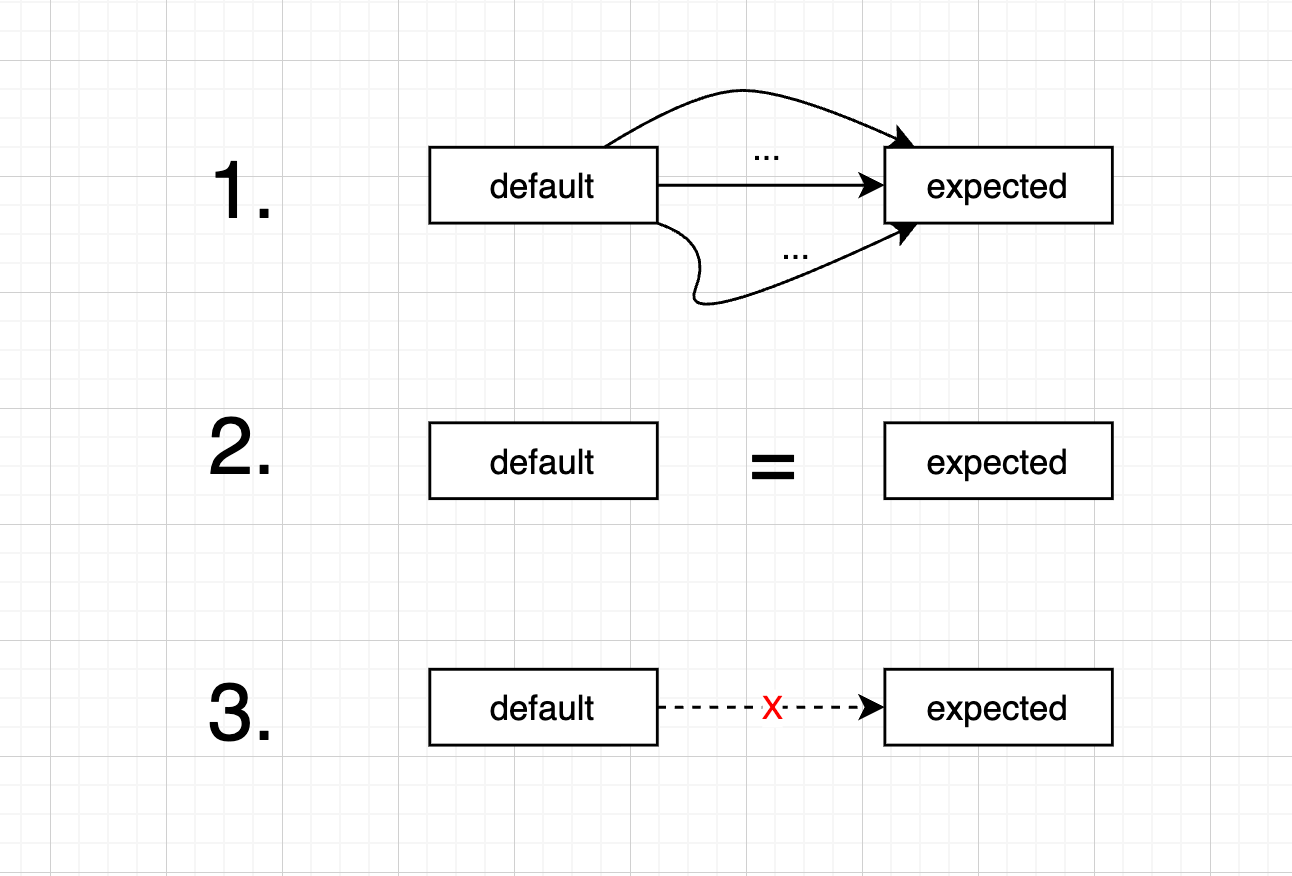
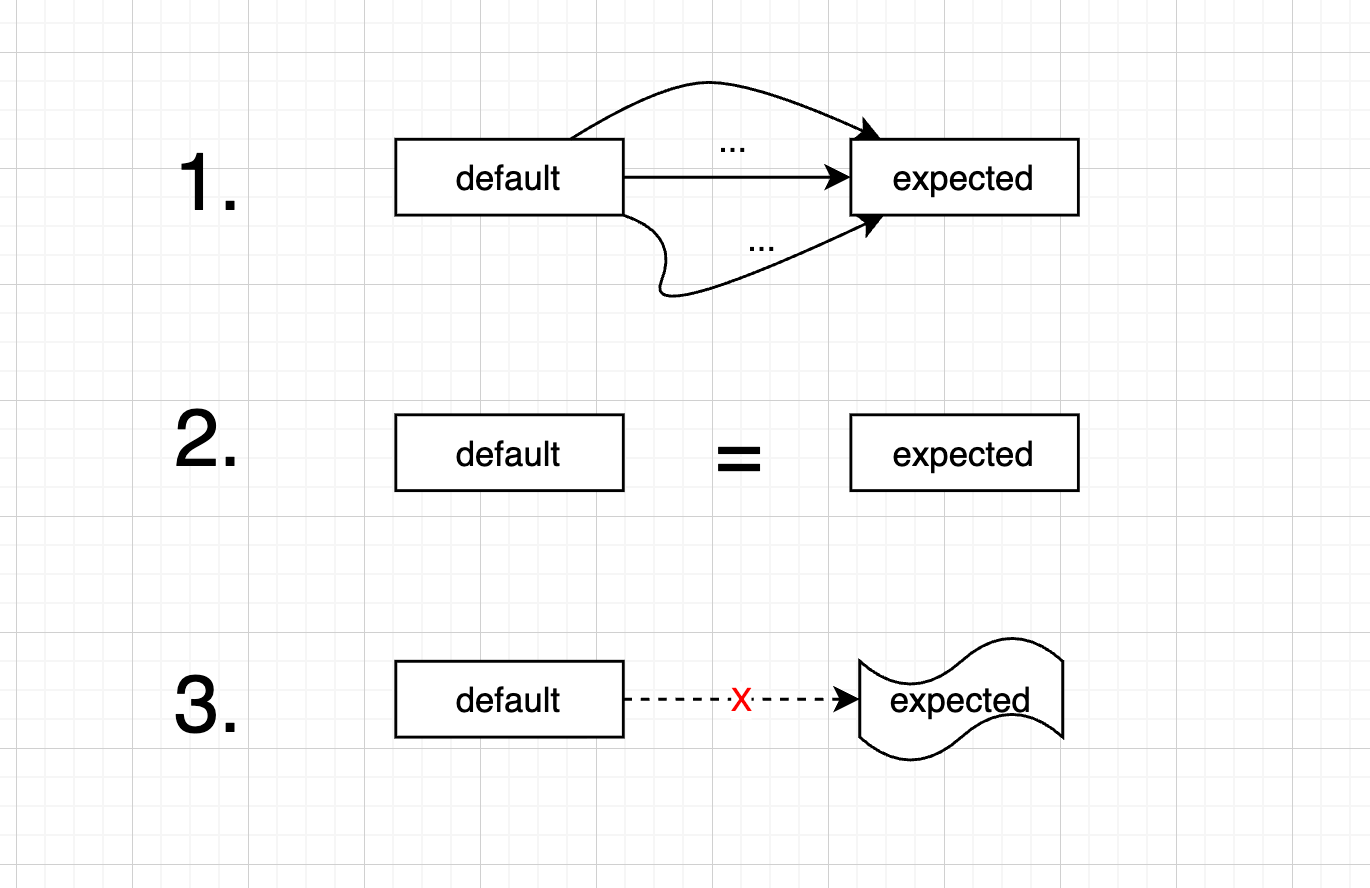
update

diff --git a/data/posts/Thoughts-on-Textual-AI-Slop.md b/data/posts/Thoughts-on-Textual-AI-Slop.md
@@ -366,6 +366,6 @@ Humanizer是一个基于维基百科给出的AI生成文章的特征（[英文](
 
 结合自己的灵感或专业能力、搭配AI开展创造性工作并获取正面的反馈是当下这个时代带来的一大红利。而将AI的能力误当作自己的能力，只顾发号施令而不学习，在一轮轮“JSON是谁？”式的叩问后将成果据为己有、将表象视为真相，只能算是一种自我陶醉。
 
-在AI领域，常常存在一种“实践先于定义”的现象。耳熟能详的Prompt/Context/Harness/Loop/Graph Engineering都是在一次又一次的工程实践中被逐渐提出、使用、验证并定义进而推广的；它们并不是被突然提出来，或者毫无缘由地冒出来，也并不是没有任何过去经验的支撑，纯粹因为AI的存在而存在。
+在AI领域，常常存在一种“实践先于定义”的现象。耳熟能详的Prompt/Context/Harness/Loop/Graph Engineering都是在一次又一次的工程实践中被逐渐提出、使用、验证并定义进而推广的；它们并不是被突然提出来，或者毫无缘由地冒出来，也并不是没有任何过去经验的支撑，或是纯粹因为AI的存在而存在。
 
-AI时代，我认为并不能放弃一份探索和求真的内心，随波逐流于“只要我学得够慢就不用学”的调侃或是什么火就学什么的模式（真的都能用上吗？）；而应该是“我实在用不到的完全可以不学”、“这个Engineering在我这里应该是这样实现的”之类的自我判断，否则可能陷入一种亦步亦趋、东施效颦的怪圈。我们更应深耕自己的领域，提出自己的Engineering。
+AI时代，我认为并不能放弃一份探索和求真的内心，随波逐流于“只要我学得够慢就不用学”的调侃或是什么火就学什么的模式（真的都能用上吗？）；而应该是“我实在用不到的完全可以不学”、“这个Engineering在我这里应该是这样实现的”之类的自我判断，否则可能陷入一种亦步亦趋、东施效颦的怪圈。我们更应深耕自己的领域，结合现有实现，提出自己的Engineering。
